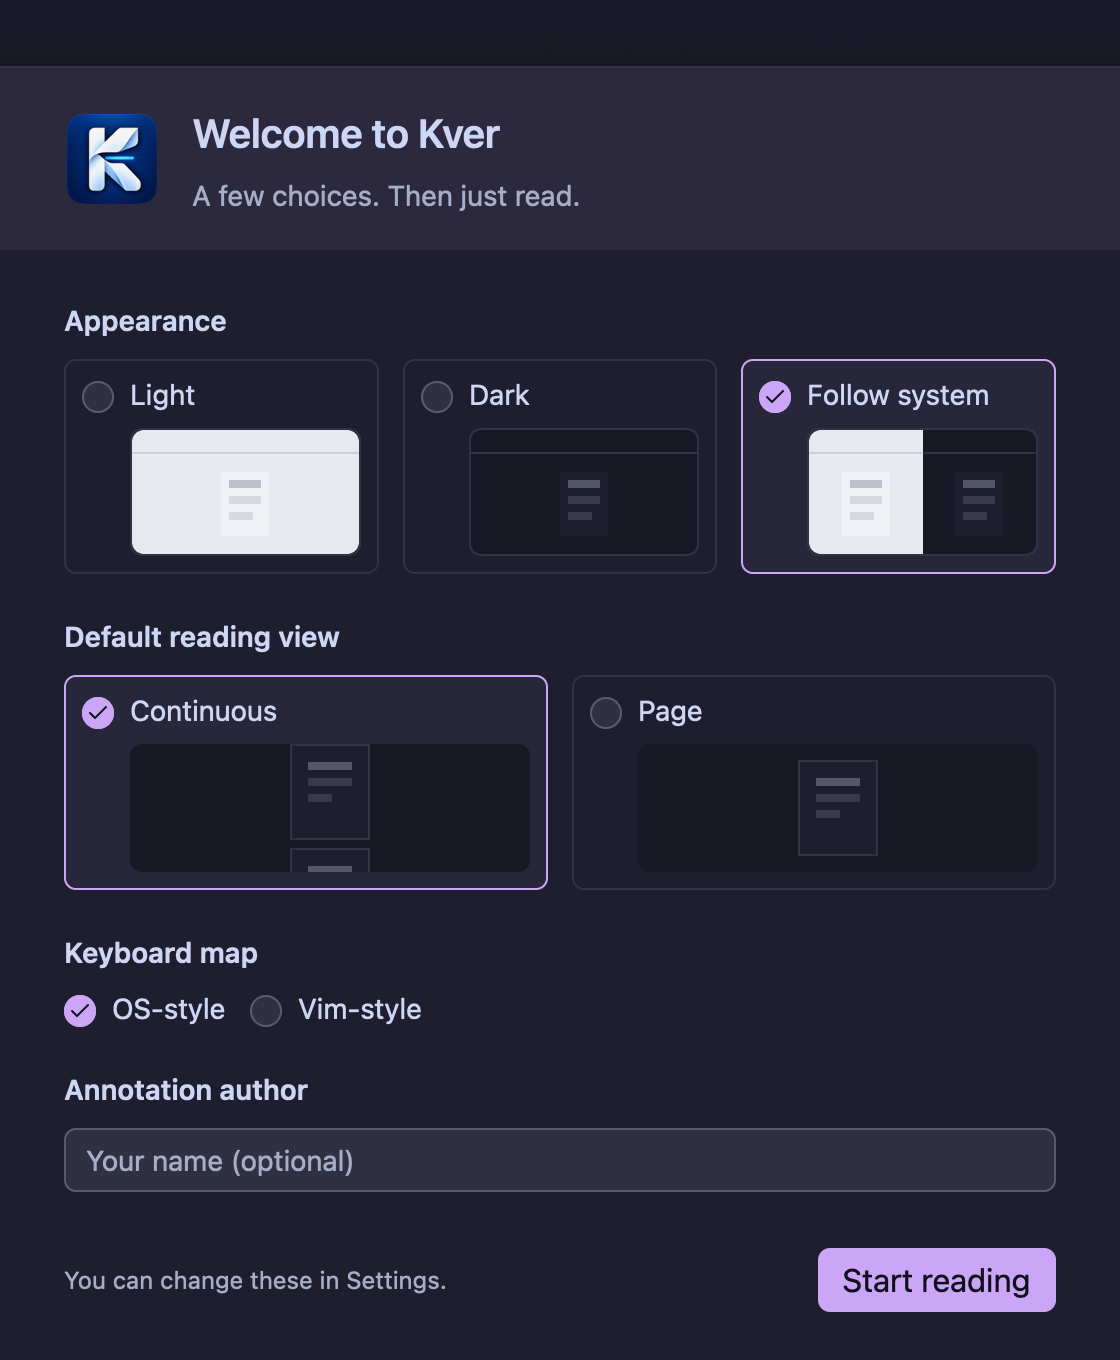
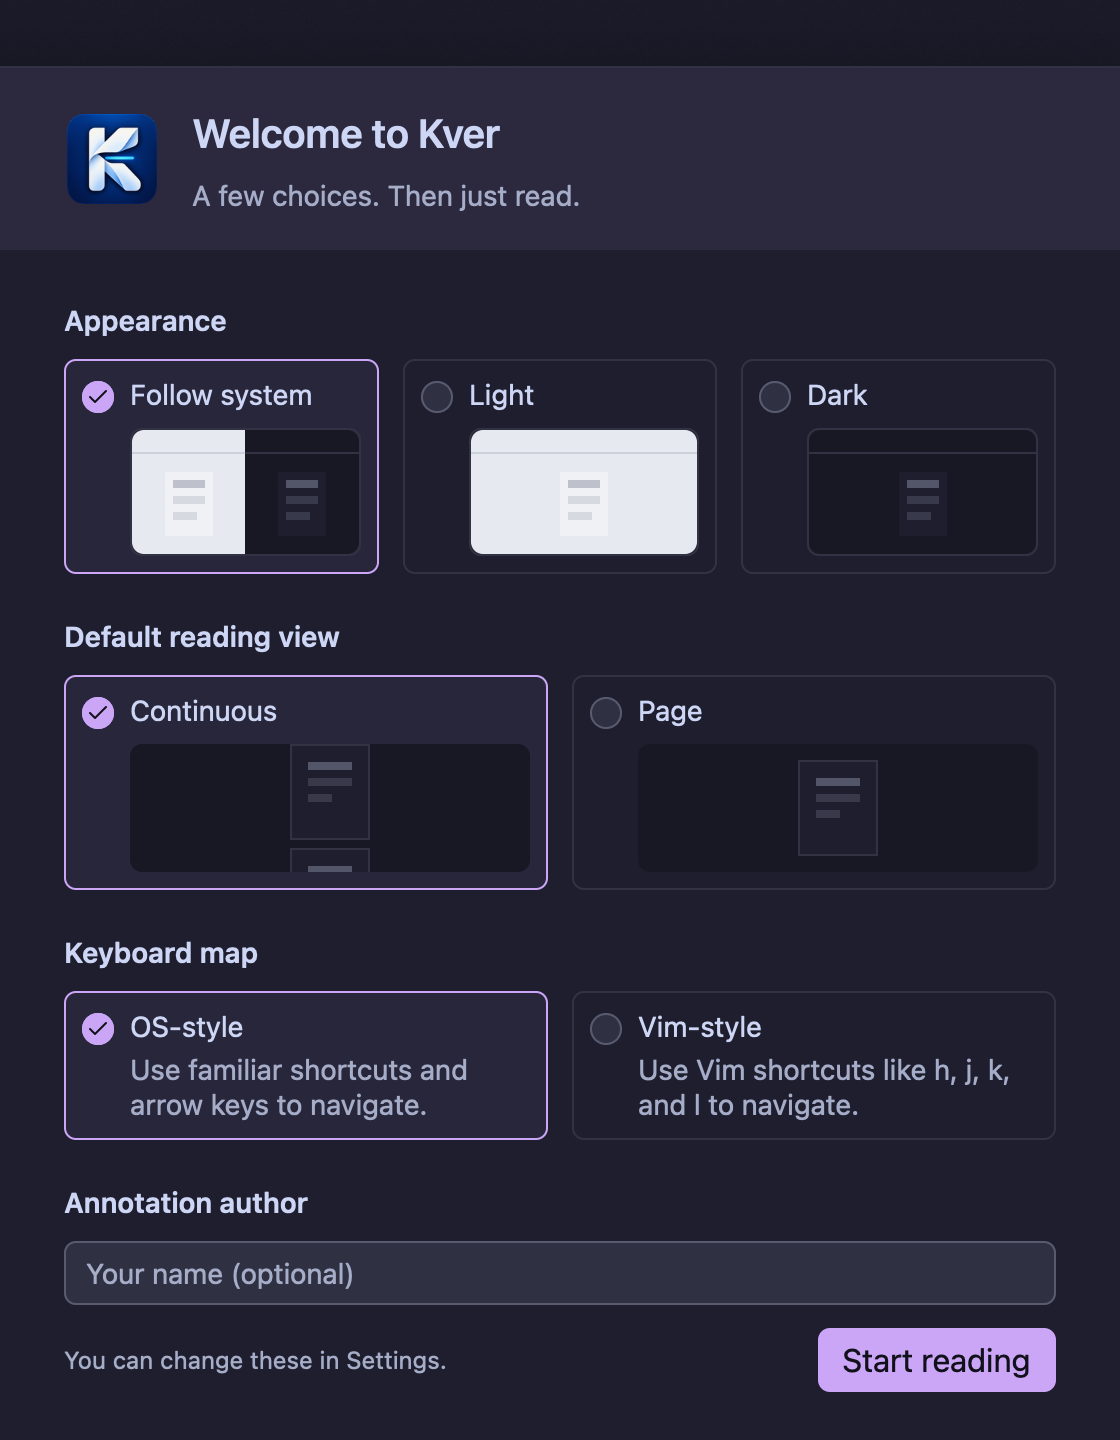
Refine onboarding choices and refresh dark-mode screenshot

diff --git a/src/app/onboarding.rs b/src/app/onboarding.rs
@@ -64,7 +64,7 @@ pub(super) fn open(
     ]);
     let (finished, receiver) = async_channel::bounded(1);
     // Native window bounds are platform pixels; content uses the rem scale.
-    let bounds = Bounds::centered(None, size(px(560.), px(680.)), cx);
+    let bounds = Bounds::centered(None, size(px(560.), px(720.)), cx);
     let (handle, _) = gpui_kit::open_window(
         WindowOptions {
             window_bounds: Some(WindowBounds::Windowed(bounds)),
@@ -297,7 +297,7 @@ fn reading_preview(view: ReadingView, cx: &App) -> gpui_kit::Div {
 impl Render for Welcome {
     fn render(&mut self, _: &mut Window, cx: &mut Context<Self>) -> impl IntoElement {
         const APPEARANCES: [Appearance; 3] =
-            [Appearance::Light, Appearance::Dark, Appearance::System];
+            [Appearance::System, Appearance::Light, Appearance::Dark];
         const PRESETS: [Preset; 2] = [Preset::Standard, Preset::Vim];
         const VIEWS: [ReadingView; 2] = [ReadingView::Continuous, ReadingView::Page];
         let mut light = cx.theme().clone();
@@ -428,8 +428,32 @@ impl Render for Welcome {
                             .child(field(
                                 "Keyboard map",
                                 RadioGroup::horizontal("onboarding-keyboard")
-                                    .child(Radio::new("keyboard-standard").label("OS-style"))
-                                    .child(Radio::new("keyboard-vim").label("Vim-style"))
+                                    .children(PRESETS.map(|preset| {
+                                        let (id, label, description) = match preset {
+                                            Preset::Standard => (
+                                                "keyboard-standard",
+                                                "OS-style",
+                                                "Use familiar shortcuts and arrow keys to navigate.",
+                                            ),
+                                            Preset::Vim => (
+                                                "keyboard-vim",
+                                                "Vim-style",
+                                                "Use Vim shortcuts like h, j, k, and l to navigate.",
+                                            ),
+                                        };
+                                        visual_choice(
+                                            id,
+                                            label,
+                                            self.preset == preset,
+                                            self.saving,
+                                            div()
+                                                .pr_6()
+                                                .text_sm()
+                                                .text_color(cx.theme().muted_foreground)
+                                                .child(description),
+                                            cx,
+                                        )
+                                    }))
                                     .selected_index(
                                         PRESETS.iter().position(|value| *value == self.preset),
                                     )
@@ -519,11 +543,19 @@ mod tests {
                 cx.update_window(handle, |_, window, cx| {
                     window.render_frame(cx);
                     let author = window.find("onboarding-author").bounds();
-                    let appearance = window.find_by_label("Light").bounds();
+                    let appearance = window.find_by_label("Follow system").bounds();
+                    let light = window.find_by_label("Light").bounds();
+                    let dark = window.find_by_label("Dark").bounds();
                     let keyboard = window.find_by_label("OS-style").bounds();
+                    let vim = window.find_by_label("Vim-style").bounds();
                     let view = window.find_by_label("Continuous").bounds();
+                    assert!(appearance.right() <= light.left());
+                    assert!(light.right() <= dark.left());
                     assert_eq!(appearance.left(), author.left());
                     assert_eq!(keyboard.left(), author.left());
+                    assert_eq!(vim.right(), author.right());
+                    assert!((keyboard.size.width - vim.size.width).abs() <= px(1.));
+                    assert_eq!(keyboard.size.height, vim.size.height);
                     assert_eq!(view.left(), author.left());
                     assert!(appearance.bottom() < view.top());
                     assert!(view.bottom() < keyboard.top());
@@ -557,11 +589,12 @@ mod tests {
         cx.update_window(handle, |_, window, cx| {
             window.render_frame(cx);
             window.press("tab", cx);
+            assert_eq!(window.find_by_label("Follow system").focused(), Some(true));
+            window.press("tab", cx);
             window.press("tab", cx);
             window.press("space", cx);
             assert_eq!(window.find_by_label("Dark").focused(), Some(true));
             assert_eq!(Theme::global(cx).mode, ThemeMode::Dark);
-            window.press("tab", cx);
             window.press("tab", cx);
             window.press("tab", cx);
             window.press("space", cx);

diff --git a/CHANGELOG.md b/CHANGELOG.md
@@ -7,6 +7,10 @@ and this project follows [Semantic Versioning](https://semver.org/spec/v2.0.0.ht
 
 ## [Unreleased]
 
+### Changed
+
+- First-launch setup now explains each keyboard map and lists system appearance first.
+
 ## [0.5.0] - 2026-11-13
 
 Add a little emphasis to your reading: Kver can now save text markup directly
